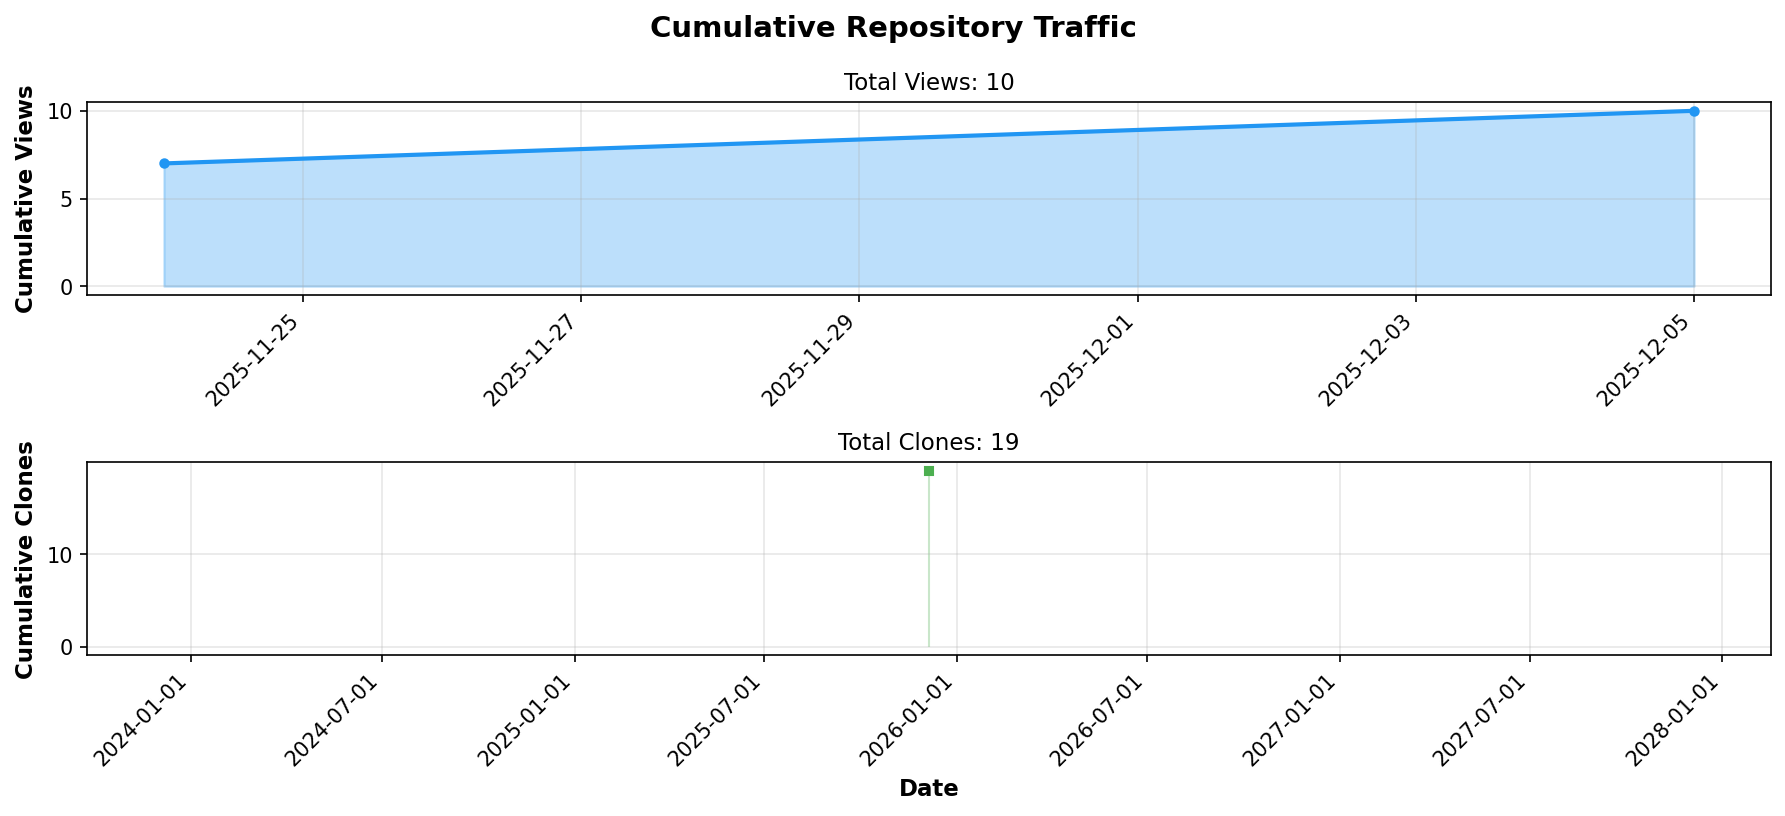
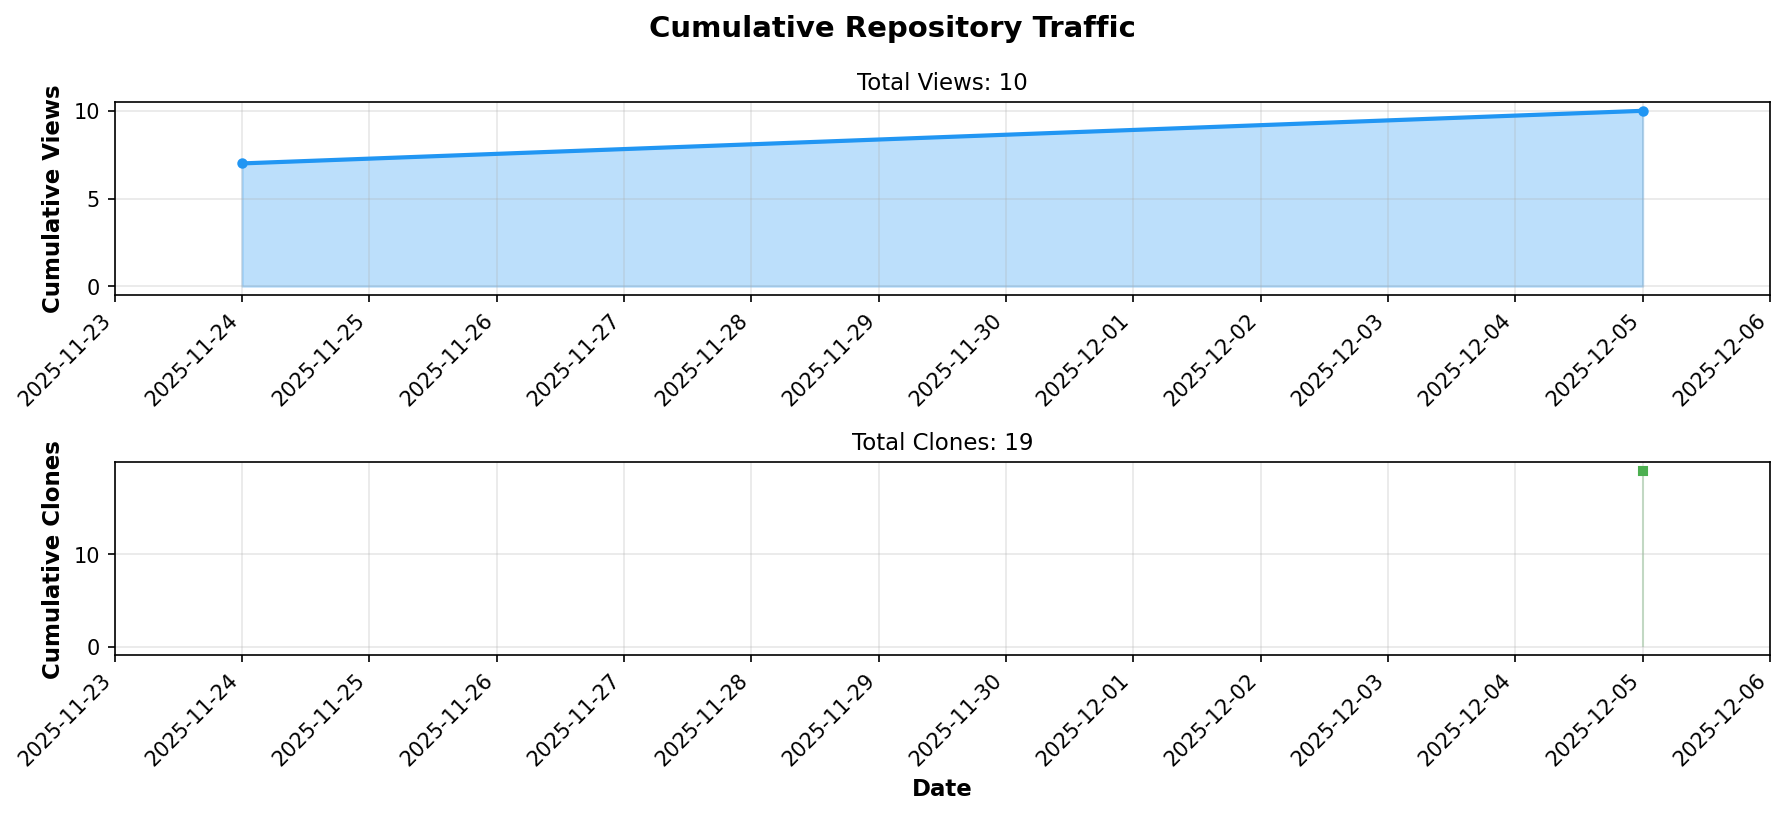
fix(stats): fix graph date scale for sparse data
- Add explicit date range calculation from all data points
- Set x-axis limits to prevent year-spanning scales
- Use DayLocator with appropriate interval based on data range
- Add 1-day padding before/after min/max dates for better visualization
- Fixes issue where graphs showed multi-year scales with only a few data points

diff --git a/scripts/generate_stats_graph.py b/scripts/generate_stats_graph.py
@@ -34,6 +34,23 @@ def generate_daily_graph(data):
     if not clones_df.empty:
         clones_df['timestamp'] = pd.to_datetime(clones_df['timestamp'])
 
+    # Determine date range from all data
+    all_dates = []
+    if not views_df.empty:
+        all_dates.extend(views_df['timestamp'].tolist())
+    if not clones_df.empty:
+        all_dates.extend(clones_df['timestamp'].tolist())
+    
+    if all_dates:
+        min_date = min(all_dates)
+        max_date = max(all_dates)
+        # Add padding: 1 day before and after
+        date_padding = pd.Timedelta(days=1)
+        x_min = min_date - date_padding
+        x_max = max_date + date_padding
+    else:
+        x_min = x_max = None
+
     # Create figure with reduced height (5.5 instead of 8)
     fig, (ax1, ax2) = plt.subplots(2, 1, figsize=(12, 5.5))
     fig.suptitle('Daily Repository Traffic', fontsize=14, fontweight='bold')
@@ -59,8 +76,10 @@ def generate_daily_graph(data):
 
     # Format x-axis
     for ax in [ax1, ax2]:
+        if x_min and x_max:
+            ax.set_xlim(x_min, x_max)
         ax.xaxis.set_major_formatter(mdates.DateFormatter('%Y-%m-%d'))
-        ax.xaxis.set_major_locator(mdates.AutoDateLocator())
+        ax.xaxis.set_major_locator(mdates.DayLocator(interval=max(1, (max_date - min_date).days // 10) if all_dates else 1))
         plt.setp(ax.xaxis.get_majorticklabels(), rotation=45, ha='right')
 
     plt.tight_layout()
@@ -87,6 +106,23 @@ def generate_cumulative_graph(data):
         clones_df = clones_df.sort_values('timestamp')
         clones_df['cumulative'] = clones_df['count'].cumsum()
 
+    # Determine date range from all data
+    all_dates = []
+    if not views_df.empty:
+        all_dates.extend(views_df['timestamp'].tolist())
+    if not clones_df.empty:
+        all_dates.extend(clones_df['timestamp'].tolist())
+    
+    if all_dates:
+        min_date = min(all_dates)
+        max_date = max(all_dates)
+        # Add padding: 1 day before and after
+        date_padding = pd.Timedelta(days=1)
+        x_min = min_date - date_padding
+        x_max = max_date + date_padding
+    else:
+        x_min = x_max = None
+
     # Create figure with reduced height
     fig, (ax1, ax2) = plt.subplots(2, 1, figsize=(12, 5.5))
     fig.suptitle('Cumulative Repository Traffic', fontsize=14, fontweight='bold')
@@ -112,8 +148,10 @@ def generate_cumulative_graph(data):
 
     # Format x-axis
     for ax in [ax1, ax2]:
+        if x_min and x_max:
+            ax.set_xlim(x_min, x_max)
         ax.xaxis.set_major_formatter(mdates.DateFormatter('%Y-%m-%d'))
-        ax.xaxis.set_major_locator(mdates.AutoDateLocator())
+        ax.xaxis.set_major_locator(mdates.DayLocator(interval=max(1, (max_date - min_date).days // 10) if all_dates else 1))
         plt.setp(ax.xaxis.get_majorticklabels(), rotation=45, ha='right')
 
     plt.tight_layout()
